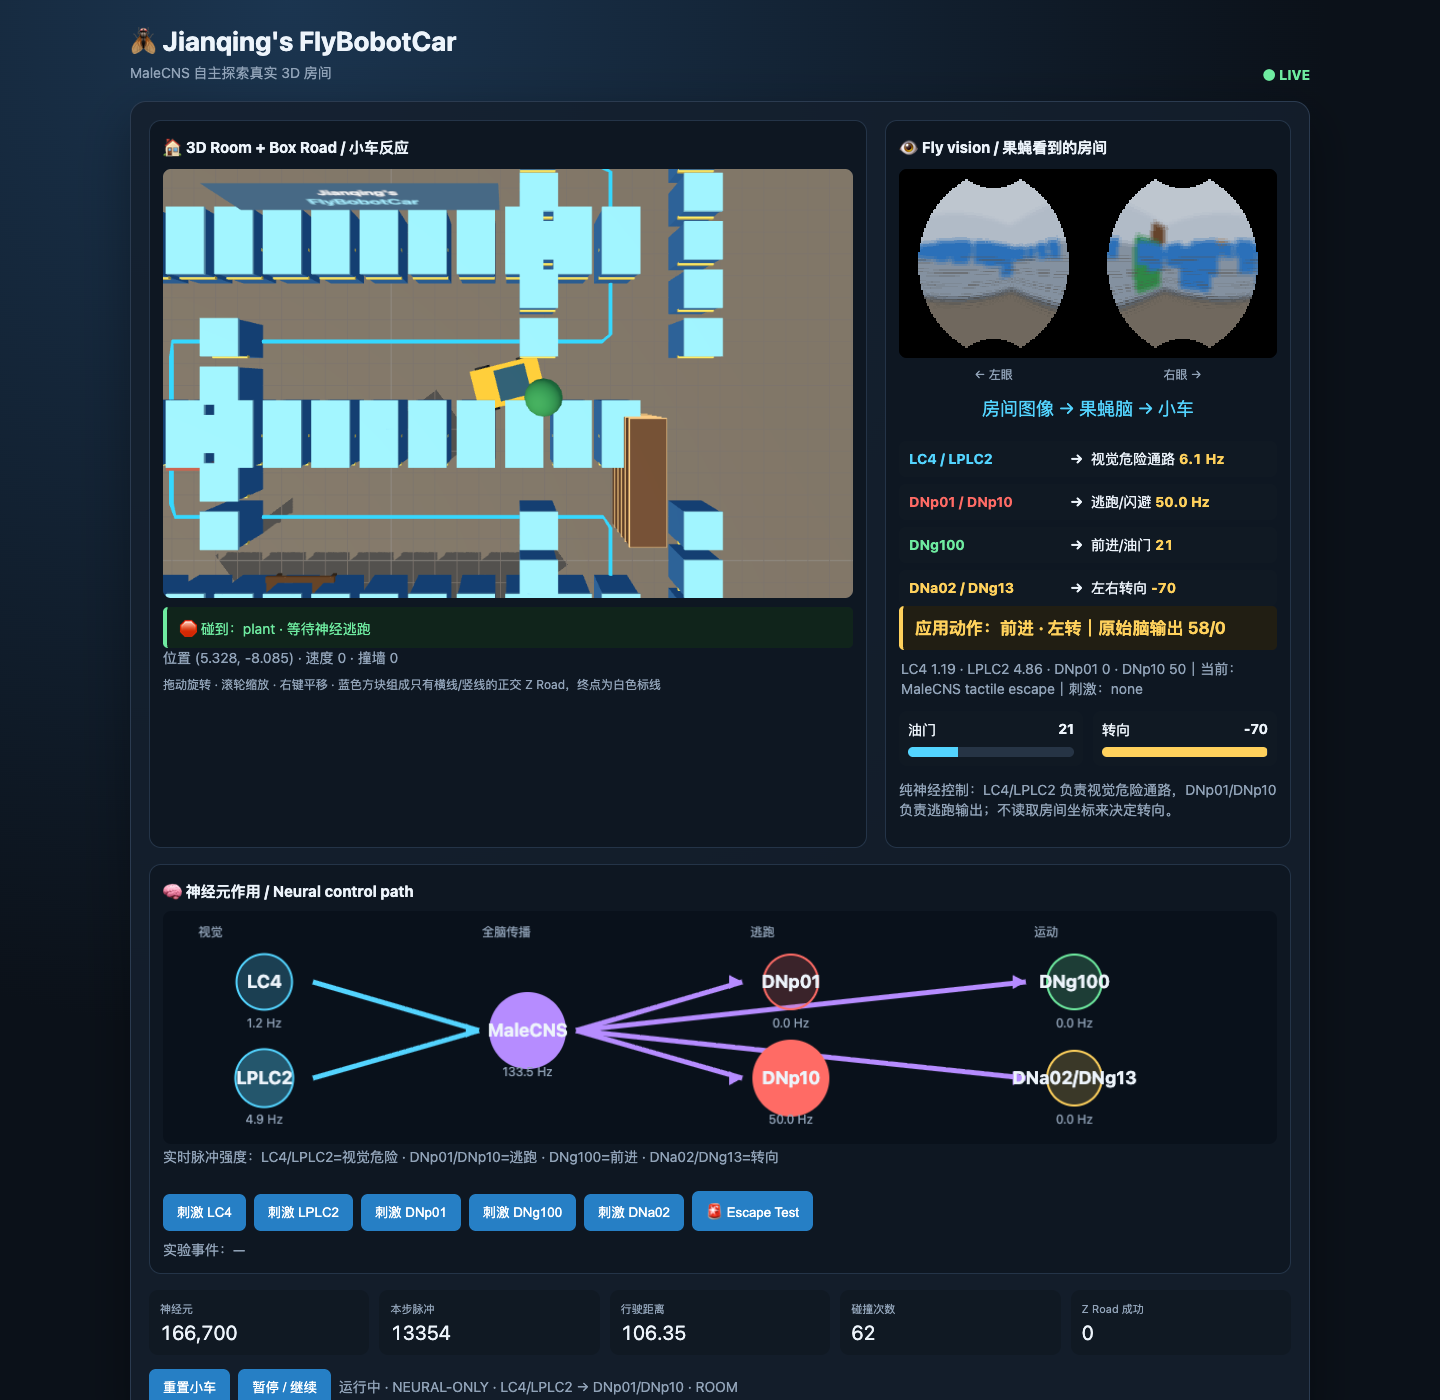
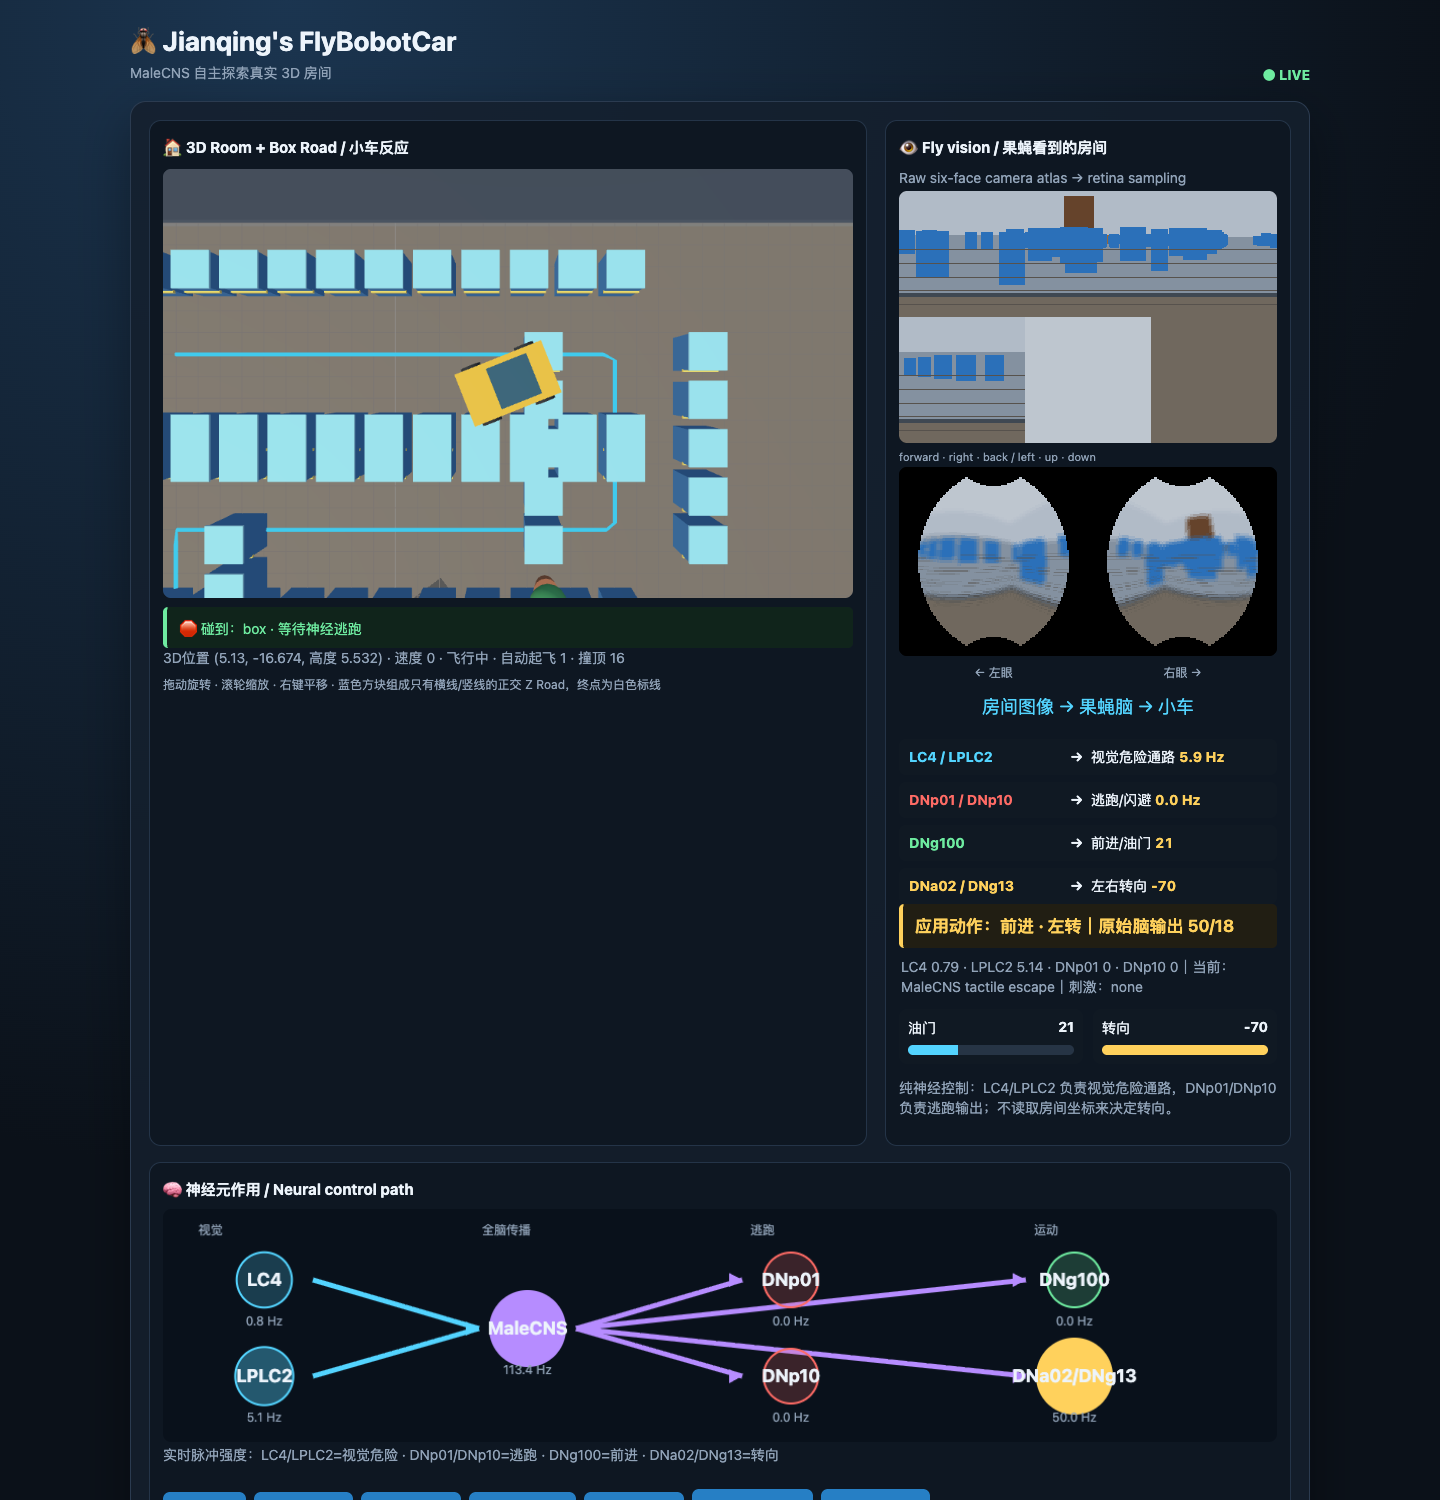
Show raw camera atlas and fly retina vision

diff --git a/index.html b/index.html
@@ -1,6 +1,6 @@
 <!doctype html><html lang="zh-CN"><head><meta charset="utf-8"><title>Jianqing's FlyBobotCar</title>
 <style>:root{--bg:#0b1119;--panel:#141f2d;--line:#2b3b50;--text:#edf4fb;--muted:#91a3b8;--cyan:#53d4ff;--yellow:#ffd15c;--green:#6eeba0}*{box-sizing:border-box}body{margin:0;background:radial-gradient(circle at 20% 0,#1b3550,#0b1119 56%);color:var(--text);font:14px system-ui}.wrap{width:min(1180px,95vw);margin:24px auto}.head{display:flex;justify-content:space-between;align-items:end}.head h1{margin:0 0 4px;font-size:27px}.muted{color:var(--muted)}.live{color:var(--green);font-weight:700}.panel{background:#141f2ddd;border:1px solid var(--line);border-radius:16px;padding:18px;margin-top:18px;box-shadow:0 18px 50px #0005}.grid{display:grid;grid-template-columns:1.38fr .78fr;gap:18px}.card{background:#0e1722;border:1px solid #243448;border-radius:12px;padding:13px}.card h2{font-size:15px;margin:0 0 10px}.scene{width:100%;height:auto;display:block;border-radius:8px;background:#202b39;cursor:grab}.vision{width:100%;image-rendering:pixelated;background:#03070b;border-radius:8px}.eyes{display:flex;justify-content:space-around;color:var(--muted);font-size:12px;margin-top:5px}.flow{text-align:center;color:var(--cyan);font-size:18px;padding:13px 0 8px}.action{border-left:4px solid var(--yellow);background:#211e13;padding:10px 12px;font-size:17px;font-weight:650;color:var(--yellow);border-radius:5px}.reaction{border-left:4px solid var(--green);background:#10241b;padding:9px 12px;margin-top:9px;color:var(--green);border-radius:5px}.mapping{display:grid;gap:7px;margin-top:12px}.maprow{display:grid;grid-template-columns:1fr auto 1.15fr;align-items:center;gap:8px;background:#101923;border-radius:7px;padding:8px 10px}.mapin{font-weight:700}.mapout{color:#ecf3fb}.mapval{font-variant-numeric:tabular-nums;color:var(--yellow);font-weight:700}.meters{display:grid;grid-template-columns:1fr 1fr;gap:10px;margin-top:12px}.meter{background:#101923;padding:9px;border-radius:8px}.meterhead{display:flex;justify-content:space-between}.track{height:10px;border-radius:8px;background:#263445;margin-top:7px;overflow:hidden}.fill{height:100%;background:var(--cyan);transition:width .2s}.fill.turn{background:var(--yellow)}.neural-card{margin-top:16px;background:#0e1722;border:1px solid #243448;border-radius:12px;padding:13px}.neural-card h2{font-size:15px;margin:0 0 8px}.neural-card canvas{width:100%;height:auto;background:#09111b;border-radius:8px}.stats{display:grid;grid-template-columns:repeat(5,1fr);gap:10px;margin-top:16px}.stat{background:#101923;padding:11px;border-radius:9px}.label{font-size:11px;color:var(--muted)}.value{font-size:20px;margin-top:4px;font-variant-numeric:tabular-nums}button{border:0;border-radius:7px;padding:9px 14px;background:#267fc5;color:white;margin:14px 8px 0 0;cursor:pointer}.hint{margin-top:8px;font-size:12px;color:var(--muted)}@media(max-width:800px){.grid{grid-template-columns:1fr}.stats{grid-template-columns:repeat(3,1fr)}}</style>
-<script type="importmap">{"imports":{"three":"https://cdn.jsdelivr.net/npm/three@0.180.0/build/three.module.js"}}</script></head><body><div class="wrap"><div class="head"><div><h1>🪰 Jianqing's FlyBobotCar</h1><div class="muted">MaleCNS 自主探索真实 3D 房间</div></div><div class="live">● LIVE</div></div><div class="panel"><div class="grid"><div class="card"><h2>🏠 3D Room + Box Road / 小车反应</h2><canvas id="scene" class="scene" width="900" height="560"></canvas><div class="reaction" id="reaction">等待小车反应…</div><div class="muted" id="pose">—</div><div class="hint">拖动旋转 · 滚轮缩放 · 右键平移 · 蓝色方块组成只有横线/竖线的正交 Z Road，终点为白色标线</div></div><div class="card"><h2>👁 Fly vision / 果蝇看到的房间</h2><canvas id="vision" class="vision" width="256" height="128"></canvas><div class="eyes"><span>← 左眼</span><span>右眼 →</span></div><div class="flow">房间图像 → 果蝇脑 → 小车</div><div class="mapping"><div class="maprow"><span class="mapin" style="color:#53d4ff">LC4 / LPLC2</span><b>→</b><span class="mapout">视觉危险通路 <b class="mapval" id="mapvision">0 Hz</b></span></div><div class="maprow"><span class="mapin" style="color:#ff6b65">DNp01 / DNp10</span><b>→</b><span class="mapout">逃跑/闪避 <b class="mapval" id="mapescape">0 Hz</b></span></div><div class="maprow"><span class="mapin" style="color:#6eeba0">DNg100</span><b>→</b><span class="mapout">前进/油门 <b class="mapval" id="mapforward">0</b></span></div><div class="maprow"><span class="mapin" style="color:#ffd15c">DNa02 / DNg13</span><b>→</b><span class="mapout">左右转向 <b class="mapval" id="mapturn">0</b></span></div></div><div class="action" id="action">动作：—</div><div class="muted" id="reflex" style="padding:9px 2px 0">作用：LC4/LPLC2=视觉危险 · DNp01/DNp10=逃跑 · DNg100=前进 · DNa02/DNg13=转向</div><div class="meters"><div class="meter"><div class="meterhead"><span>油门</span><b id="tv">0</b></div><div class="track"><div class="fill" id="throttle"></div></div></div><div class="meter"><div class="meterhead"><span>转向</span><b id="sv">0</b></div><div class="track"><div class="fill turn" id="steering"></div></div></div></div><p class="muted">纯神经控制：LC4/LPLC2 负责视觉危险通路，DNp01/DNp10 负责逃跑输出；不读取房间坐标来决定转向。</p></div></div><div class="neural-card"><h2>🧠 神经元作用 / Neural control path</h2><canvas id="neuralMap" width="1100" height="230"></canvas><div class="muted">实时脉冲强度：LC4/LPLC2=视觉危险 · DNp01/DNp10=逃跑 · DNg100=前进 · DNa02/DNg13=转向</div><div style="margin-top:10px"><button onclick="stim('LC4')">刺激 LC4</button><button onclick="stim('LPLC2')">刺激 LPLC2</button><button onclick="stim('DNp01')">刺激 DNp01</button><button onclick="stim('DNg100')">刺激 DNg100</button><button onclick="stim('DNa02')">刺激 DNa02</button><button onclick="escapeTest()">🚨 Escape Test</button><button onclick="flightTest()">🪽 Flight Test</button></div><div id="events" class="muted" style="margin-top:8px;line-height:1.5">实验事件：—</div></div><div class="stats"><div class="stat"><div class="label">神经元</div><div class="value" id="neurons">—</div></div><div class="stat"><div class="label">本步脉冲</div><div class="value" id="spikes">—</div></div><div class="stat"><div class="label">行驶距离</div><div class="value" id="distance">—</div></div><div class="stat"><div class="label">碰撞次数</div><div class="value" id="collisions">—</div></div><div class="stat"><div class="label">Z Road 成功</div><div class="value" id="successes">—</div></div></div><button onclick="post('/reset')">重置小车</button><button onclick="post('/pause')">暂停 / 继续</button><span class="muted" id="status">加载 3D 房间…</span></div></div></div>
+<script type="importmap">{"imports":{"three":"https://cdn.jsdelivr.net/npm/three@0.180.0/build/three.module.js"}}</script></head><body><div class="wrap"><div class="head"><div><h1>🪰 Jianqing's FlyBobotCar</h1><div class="muted">MaleCNS 自主探索真实 3D 房间</div></div><div class="live">● LIVE</div></div><div class="panel"><div class="grid"><div class="card"><h2>🏠 3D Room + Box Road / 小车反应</h2><canvas id="scene" class="scene" width="900" height="560"></canvas><div class="reaction" id="reaction">等待小车反应…</div><div class="muted" id="pose">—</div><div class="hint">拖动旋转 · 滚轮缩放 · 右键平移 · 蓝色方块组成只有横线/竖线的正交 Z Road，终点为白色标线</div></div><div class="card"><h2>👁 Fly vision / 果蝇看到的房间</h2><div class="muted" style="margin-bottom:5px">Raw six-face camera atlas → retina sampling</div><canvas id="cameraRaw" class="vision" width="384" height="256"></canvas><div class="muted" style="font-size:11px;margin:4px 0">forward · right · back / left · up · down</div><canvas id="vision" class="vision" width="256" height="128"></canvas><div class="eyes"><span>← 左眼</span><span>右眼 →</span></div><div class="flow">房间图像 → 果蝇脑 → 小车</div><div class="mapping"><div class="maprow"><span class="mapin" style="color:#53d4ff">LC4 / LPLC2</span><b>→</b><span class="mapout">视觉危险通路 <b class="mapval" id="mapvision">0 Hz</b></span></div><div class="maprow"><span class="mapin" style="color:#ff6b65">DNp01 / DNp10</span><b>→</b><span class="mapout">逃跑/闪避 <b class="mapval" id="mapescape">0 Hz</b></span></div><div class="maprow"><span class="mapin" style="color:#6eeba0">DNg100</span><b>→</b><span class="mapout">前进/油门 <b class="mapval" id="mapforward">0</b></span></div><div class="maprow"><span class="mapin" style="color:#ffd15c">DNa02 / DNg13</span><b>→</b><span class="mapout">左右转向 <b class="mapval" id="mapturn">0</b></span></div></div><div class="action" id="action">动作：—</div><div class="muted" id="reflex" style="padding:9px 2px 0">作用：LC4/LPLC2=视觉危险 · DNp01/DNp10=逃跑 · DNg100=前进 · DNa02/DNg13=转向</div><div class="meters"><div class="meter"><div class="meterhead"><span>油门</span><b id="tv">0</b></div><div class="track"><div class="fill" id="throttle"></div></div></div><div class="meter"><div class="meterhead"><span>转向</span><b id="sv">0</b></div><div class="track"><div class="fill turn" id="steering"></div></div></div></div><p class="muted">纯神经控制：LC4/LPLC2 负责视觉危险通路，DNp01/DNp10 负责逃跑输出；不读取房间坐标来决定转向。</p></div></div><div class="neural-card"><h2>🧠 神经元作用 / Neural control path</h2><canvas id="neuralMap" width="1100" height="230"></canvas><div class="muted">实时脉冲强度：LC4/LPLC2=视觉危险 · DNp01/DNp10=逃跑 · DNg100=前进 · DNa02/DNg13=转向</div><div style="margin-top:10px"><button onclick="stim('LC4')">刺激 LC4</button><button onclick="stim('LPLC2')">刺激 LPLC2</button><button onclick="stim('DNp01')">刺激 DNp01</button><button onclick="stim('DNg100')">刺激 DNg100</button><button onclick="stim('DNa02')">刺激 DNa02</button><button onclick="escapeTest()">🚨 Escape Test</button><button onclick="flightTest()">🪽 Flight Test</button></div><div id="events" class="muted" style="margin-top:8px;line-height:1.5">实验事件：—</div></div><div class="stats"><div class="stat"><div class="label">神经元</div><div class="value" id="neurons">—</div></div><div class="stat"><div class="label">本步脉冲</div><div class="value" id="spikes">—</div></div><div class="stat"><div class="label">行驶距离</div><div class="value" id="distance">—</div></div><div class="stat"><div class="label">碰撞次数</div><div class="value" id="collisions">—</div></div><div class="stat"><div class="label">Z Road 成功</div><div class="value" id="successes">—</div></div></div><button onclick="post('/reset')">重置小车</button><button onclick="post('/pause')">暂停 / 继续</button><span class="muted" id="status">加载 3D 房间…</span></div></div></div>
 <script type="module">
 import * as THREE from 'three';import {OrbitControls} from 'https://cdn.jsdelivr.net/npm/three@0.180.0/examples/jsm/controls/OrbitControls.js';
 const $=id=>document.getElementById(id);let state={x:0,y:0,heading:0},car,scene,cam,renderer,controls,hasState=false;
@@ -9,6 +9,6 @@ function drawNeural(s){let c=$("neuralMap"),x=c.getContext("2d"),nodes=[{x:100,y
 function addFurniture(o){let g=new THREE.Group(),c=(o.color[0]<<16)|(o.color[1]<<8)|o.color[2];if(o.kind==='sofa'||o.kind==='armchair'){let seat=box(o.w,.45,o.d,c);seat.position.y=.48;g.add(seat);let back=box(o.w,o.h*.75,.35,c);back.position.set(0,o.h*.6,o.d/2-.18);g.add(back);for(let side of [-1,1]){let arm=box(.3,.7,o.d,c);arm.position.set(side*(o.w/2-.15),.65,0);g.add(arm)}}else if(o.kind.includes('table')){let top=box(o.w,.18,o.d,c);top.position.y=o.h;g.add(top);for(let sx of [-1,1])for(let sz of [-1,1]){let leg=box(.16,o.h,.16,0x55402e);leg.position.set(sx*(o.w/2-.25),o.h/2,sz*(o.d/2-.25));g.add(leg)}}else if(o.kind==='box'){let body=box(o.w,o.h,o.d,c);body.position.y=o.h/2;g.add(body);let top=box(o.w+.08,.12,o.d+.08,0x8ddcff);top.position.y=o.h+.06;g.add(top);let stripe=box(o.w+.02,.16,.12,0xf0d35c);stripe.position.set(0,o.h*.62,o.d/2+.02);g.add(stripe)}else if(o.kind==='bookshelf'){let body=box(o.w,o.h,o.d,c);body.position.y=o.h/2;g.add(body);for(let y=.5;y<o.h;y+=.65){let shelf=box(o.w+.08,.08,o.d+.08,0xe0b77b);shelf.position.y=y;g.add(shelf)}}else{let pot=new THREE.Mesh(new THREE.CylinderGeometry(.55,.42,.7,16),material(0x9a5837));pot.position.y=.35;g.add(pot);let stem=box(.12,1.5,.12,0x376d3d);stem.position.y=1.3;g.add(stem);let leaves=new THREE.Mesh(new THREE.SphereGeometry(.8,16,12),material(0x2f9652));leaves.position.y=2;g.add(leaves)}g.position.set(o.x,0,o.y);g.traverse(n=>{if(n.isMesh){n.castShadow=true;n.receiveShadow=true}});scene.add(g)}
 async function setup3D(){let canvas=$('scene');scene=new THREE.Scene();scene.background=new THREE.Color(0x182231);cam=new THREE.PerspectiveCamera(48,canvas.width/canvas.height,.1,100);renderer=new THREE.WebGLRenderer({canvas,antialias:true});renderer.setPixelRatio(Math.min(devicePixelRatio,2));renderer.shadowMap.enabled=true;controls=new OrbitControls(cam,canvas);controls.enableDamping=true;controls.maxPolarAngle=Math.PI*.5;controls.minDistance=4;controls.maxDistance=55;scene.add(new THREE.HemisphereLight(0xe6f1ff,0x463b32,2.1));let light=new THREE.DirectionalLight(0xfff1d0,3);light.position.set(-8,13,6);light.castShadow=true;scene.add(light);let floor=box(48,.25,48,0x70685f);floor.position.y=-.14;floor.receiveShadow=true;scene.add(floor);let grid=new THREE.GridHelper(48,48,0x96918b,0x7c746c);grid.position.y=.01;scene.add(grid);let wallMat=new THREE.MeshStandardMaterial({color:0x8995a5,transparent:true,opacity:.22,side:THREE.DoubleSide,depthWrite:false,roughness:.9});for(let [w,h,d,x,y,z] of [[48,7,.3,0,3.5,-24],[48,7,.3,0,3.5,24],[.3,7,48,-24,3.5,0],[.3,7,48,24,3.5,0]]){let wall=new THREE.Mesh(new THREE.BoxGeometry(w,h,d),wallMat);wall.position.set(x,y,z);wall.receiveShadow=true;scene.add(wall)}let ceiling=box(48,.2,48,0x657083);ceiling.position.y=7;ceiling.material.transparent=true;ceiling.material.opacity=.16;scene.add(ceiling);/* Visible orthogonal Z Road guide: scenery only; no diagonals and no control input. */let roadCurve=new THREE.CurvePath();let roadPts=[[-10,-18],[10,-18],[10,-10],[-10,-10],[-10,-2],[10,-2],[10,6],[-10,6],[-10,14],[0,14]];for(let i=0;i<roadPts.length-1;i++){let a=roadPts[i],b=roadPts[i+1];roadCurve.add(new THREE.LineCurve3(new THREE.Vector3(a[0],.035,a[1]),new THREE.Vector3(b[0],.035,b[1])))}let roadLine=new THREE.Mesh(new THREE.TubeGeometry(roadCurve,180,.09,8,false),new THREE.MeshBasicMaterial({color:0x35d8ff}));scene.add(roadLine);let objects=await(await fetch('/objects')).json();objects.forEach(addFurniture);let finish=box(5.8,.035,.35,0xf4f0d0);finish.position.set(0,.04,19);scene.add(finish);let finish2=box(.12,.04,5.8,0xf4f0d0);finish2.position.set(0,.05,19);scene.add(finish2);let lc=document.createElement('canvas');lc.width=1024;lc.height=256;let x=lc.getContext('2d');x.fillStyle='#10243c';x.fillRect(0,0,1024,256);x.fillStyle='white';x.font='bold 61px system-ui';x.textAlign='center';x.fillText("Jianqing's",512,105);x.fillStyle='#61d6ff';x.font='bold 73px system-ui';x.fillText('FlyBobotCar',512,195);let sign=new THREE.Mesh(new THREE.PlaneGeometry(10,2.5),new THREE.MeshBasicMaterial({map:new THREE.CanvasTexture(lc)}));sign.position.set(0,4.6,-14.8);scene.add(sign);car=new THREE.Group();let body=box(1.8,.65,3,0xf1b92f);body.position.y=.65;car.add(body);let cabin=box(1.35,.58,1.35,0x1c526c);cabin.position.set(0,1.16,-.2);car.add(cabin);for(let wx of [-.92,.92])for(let wz of [-.95,.95]){let wheel=new THREE.Mesh(new THREE.CylinderGeometry(.34,.34,.18,16),material(0x111820));wheel.rotation.z=Math.PI/2;wheel.position.set(wx,.38,wz);car.add(wheel)}car.traverse(n=>{if(n.isMesh)n.castShadow=true});scene.add(car);function animate(){requestAnimationFrame(animate);if(car){car.position.set(state.x,state.z||0,state.y);car.rotation.y=-state.heading-Math.PI/2}controls.update();renderer.render(scene,cam)}animate()}
 async function post(url){await fetch(url,{method:'POST'})}async function stim(group){await fetch('/stimulate?group='+encodeURIComponent(group),{method:'POST'})}async function escapeTest(){await fetch('/escape-test',{method:'POST'})}async function flightTest(){await fetch('/flight-test',{method:'POST'})}window.post=post;window.stim=stim;window.escapeTest=escapeTest;window.flightTest=flightTest;window.stim=stim;
-async function drawVision(){try{let a=new Uint8ClampedArray(await(await fetch('/vision',{cache:'no-store'})).arrayBuffer()),c=$('vision').getContext('2d'),im=c.createImageData(256,128);for(let i=0,j=0;i<a.length;i+=3,j+=4){im.data[j]=a[i];im.data[j+1]=a[i+1];im.data[j+2]=a[i+2];im.data[j+3]=255}c.putImageData(im,0,0)}catch(e){}}
+async function drawVision(){try{let a=new Uint8ClampedArray(await(await fetch('/vision',{cache:'no-store'})).arrayBuffer()),c=$('vision').getContext('2d'),im=c.createImageData(256,128);for(let i=0,j=0;i<a.length;i+=3,j+=4){im.data[j]=a[i];im.data[j+1]=a[i+1];im.data[j+2]=a[i+2];im.data[j+3]=255}c.putImageData(im,0,0);let raw=new Uint8ClampedArray(await(await fetch('/camera',{cache:'no-store'})).arrayBuffer()),rc=$('cameraRaw').getContext('2d'),rim=rc.createImageData(384,256);for(let i=0,j=0;i<raw.length;i+=3,j+=4){rim.data[j]=raw[i];rim.data[j+1]=raw[i+1];rim.data[j+2]=raw[i+2];rim.data[j+3]=255}rc.putImageData(rim,0,0)}catch(e){}}
 async function update(){try{let s=await(await fetch('/state',{cache:'no-store'})).json();drawNeural(s);if(!hasState){cam.position.set(s.x,22,s.y);controls.target.set(s.x,s.z||0,s.y);hasState=true}else{let dx=s.x-state.x,dz=s.y-state.y;cam.position.x+=dx;cam.position.z+=dz;controls.target.x+=dx;controls.target.z+=dz;controls.target.y=s.z||0}state=s;let move=s.throttle>8?'前进':'停止',turn=s.steering>8?'右转':s.steering<-8?'左转':'直行';$('action').textContent=`应用动作：${move} · ${turn}｜原始脑输出 ${s.raw_throttle}/${s.raw_steering}`;$('mapvision').textContent=`${(s.lc4_rate+s.lplc2_rate).toFixed(1)} Hz`;$('mapescape').textContent=`${(s.dnp01_rate+s.dnp10_rate).toFixed(1)} Hz`;$('mapforward').textContent=s.throttle;$('mapturn').textContent=s.steering;$('reflex').textContent=`LC4 ${s.lc4_rate} · LPLC2 ${s.lplc2_rate} · DNp01 ${s.dnp01_rate} · DNp10 ${s.dnp10_rate}｜当前：${s.control_source}｜刺激：${s.stimulus}`;$('events').textContent='实验事件：'+(s.events&&s.events.length?s.events.map(e=>`${e.type}:${e.group}`).join(' · '):'—');$('reaction').textContent=s.last_contact==='none'?(s.control_source==='MaleCNS neural escape'?'🧠 DNp01/DNp10 触发神经逃跑':s.control_source==='MaleCNS tactile escape'?'🧠 触碰后执行神经逃跑':'✅ MaleCNS 直接控制小车'):`🛑 碰到：${s.last_contact} · 等待神经逃跑`;$('pose').textContent=`3D位置 (${s.x}, ${s.y}, 高度 ${s.z}) · 速度 ${s.speed} · ${s.flying?'飞行中':'地面'} · 自动起飞 ${s.auto_takeoffs||0} · 撞顶 ${s.ceiling_contacts||0}`;[['neurons',s.neurons.toLocaleString()],['spikes',s.spikes],['distance',s.distance],['collisions',s.collisions],['successes',s.box_successes]].forEach(([id,v])=>$(id).textContent=v);$('tv').textContent=s.throttle;$('sv').textContent=s.steering;$('throttle').style.width=Math.abs(s.throttle)/70*100+'%';$('steering').style.width=Math.abs(s.steering)/70*100+'%';$('status').textContent=`${s.paused?'已暂停':'运行中'} · NEURAL-ONLY · LC4/LPLC2 → DNp01/DNp10 · ROOM`;}catch(e){$('status').textContent='后端连接断开'}}setup3D();setInterval(update,200);setInterval(drawVision,250);update();drawVision();
 </script></body></html>

diff --git a/robot.py b/robot.py
@@ -370,6 +370,9 @@ class Handler(BaseHTTPRequestHandler):
         if self.path == "/vision":
             with WORLD.lock: body = WORLD.model.retina.preview(WORLD.frame).tobytes()
             return self.send_bytes(body, "application/octet-stream")
+        if self.path == "/camera":
+            with WORLD.lock: body = WORLD.frame.tobytes()
+            return self.send_bytes(body, "application/octet-stream")
         if self.path == "/objects": return self.send_bytes(json.dumps(OBJECTS).encode(), "application/json")
         return self.send_bytes((ROOT / "index.html").read_bytes(), "text/html; charset=utf-8")
 
